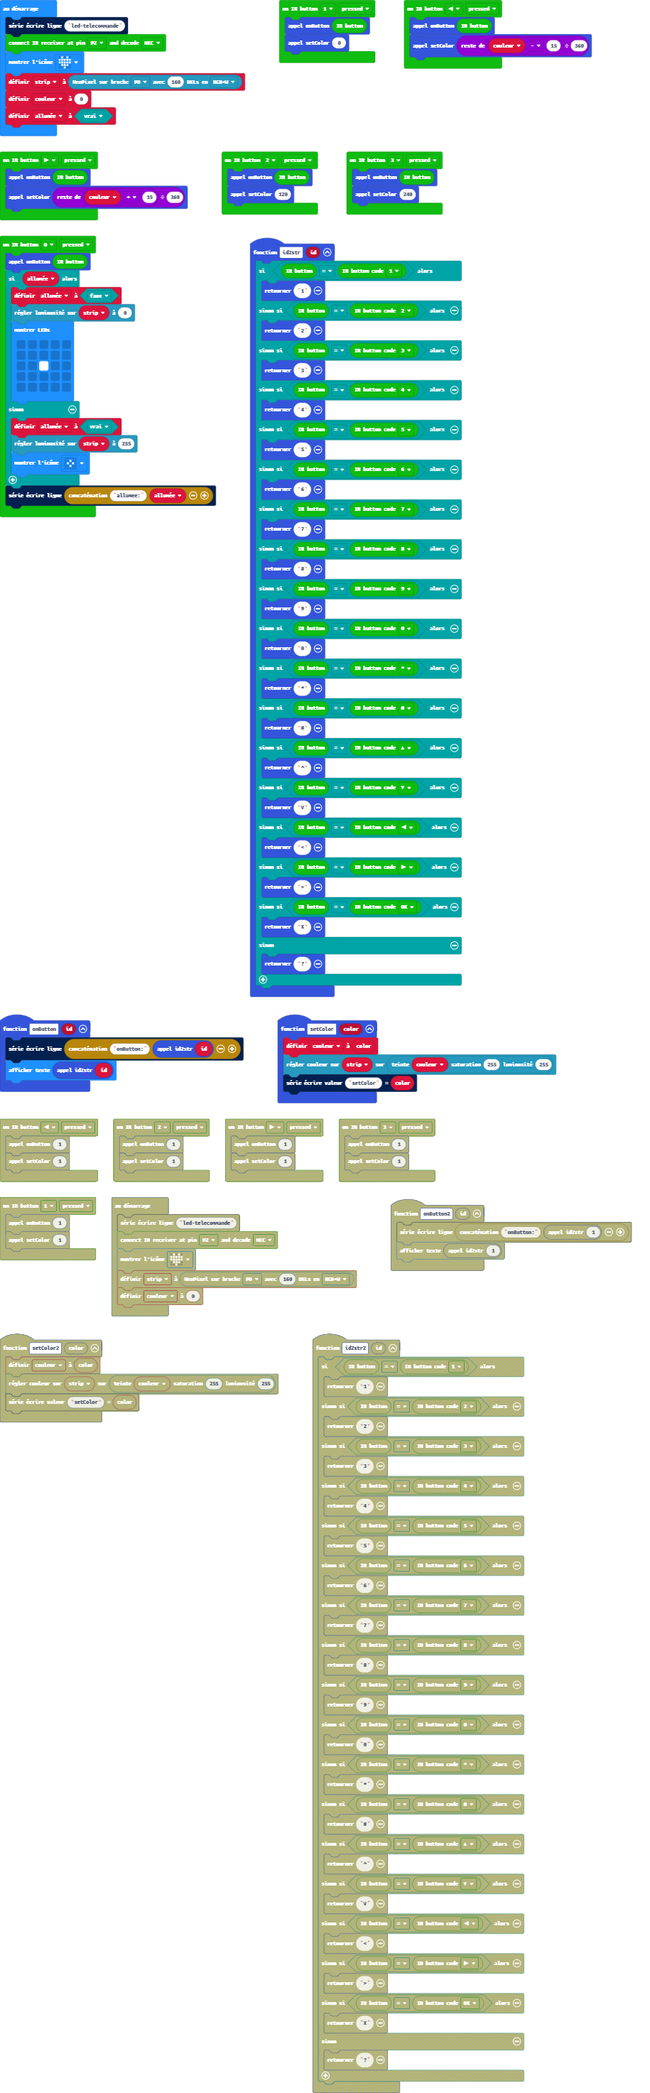
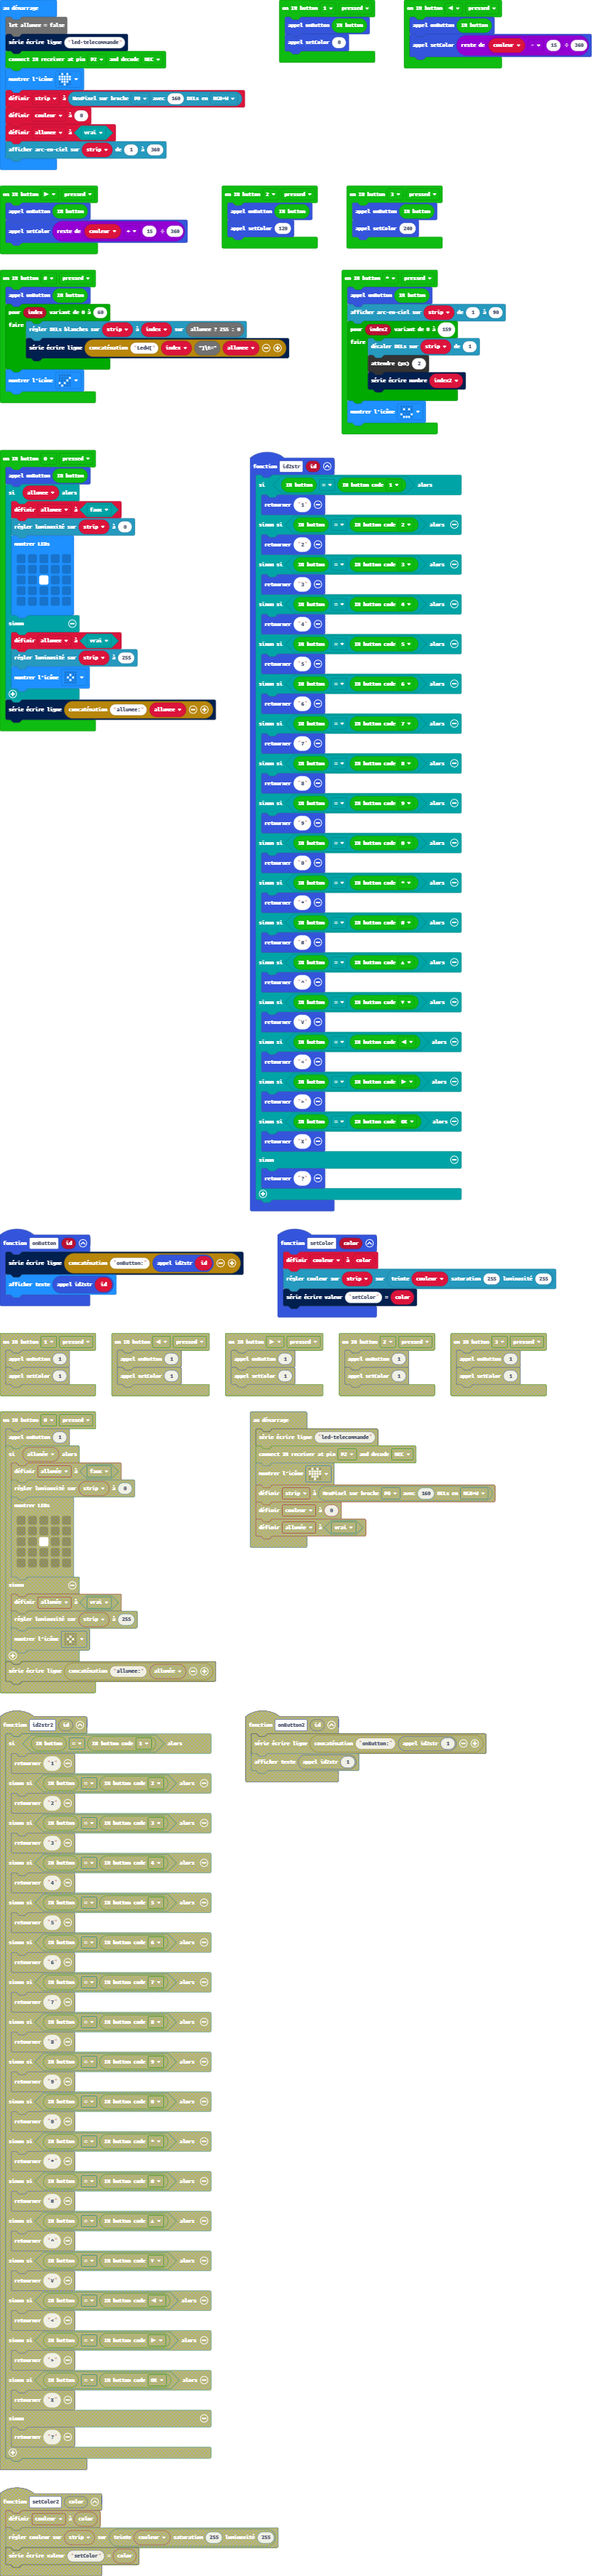
avec rainbow effet + led White

diff --git a/main.ts b/main.ts
@@ -2,10 +2,18 @@ makerbit.onIrButton(IrButton.Number_3, IrButtonAction.Pressed, function () {
     onButton(makerbit.irButton())
     setColor(240)
 })
+makerbit.onIrButton(IrButton.Hash, IrButtonAction.Pressed, function () {
+    onButton(makerbit.irButton())
+    for (let index = 0; index <= 60; index++) {
+        strip.setPixelWhiteLED(index, allumee ? 255 : 0)
+        serial.writeLine("LedW[" + index + "]\t=" + allumee)
+    }
+    basic.showIcon(IconNames.Yes)
+})
 makerbit.onIrButton(IrButton.Number_0, IrButtonAction.Pressed, function () {
     onButton(makerbit.irButton())
-    if (allumée) {
-        allumée = false
+    if (allumee) {
+        allumee = false
         strip.setBrightness(0)
         basic.showLeds(`
             . . . . .
@@ -15,11 +23,11 @@ makerbit.onIrButton(IrButton.Number_0, IrButtonAction.Pressed, function () {
             . . . . .
             `)
     } else {
-        allumée = true
+        allumee = true
         strip.setBrightness(255)
         basic.showIcon(IconNames.SmallDiamond)
     }
-    serial.writeLine("allumee:" + allumée)
+    serial.writeLine("allumee:" + allumee)
 })
 makerbit.onIrButton(IrButton.Number_1, IrButtonAction.Pressed, function () {
     onButton(makerbit.irButton())
@@ -28,6 +36,16 @@ makerbit.onIrButton(IrButton.Number_1, IrButtonAction.Pressed, function () {
 makerbit.onIrButton(IrButton.Left, IrButtonAction.Pressed, function () {
     onButton(makerbit.irButton())
     setColor((couleur - 15) % 360)
+})
+makerbit.onIrButton(IrButton.Star, IrButtonAction.Pressed, function () {
+    onButton(makerbit.irButton())
+    strip.showRainbow(1, 90)
+    for (let index2 = 0; index2 <= 159; index2++) {
+        strip.shift(1)
+        control.waitMicros(2)
+        serial.writeNumber(index2)
+    }
+    basic.showIcon(IconNames.Happy)
 })
 makerbit.onIrButton(IrButton.Number_2, IrButtonAction.Pressed, function () {
     onButton(makerbit.irButton())
@@ -85,12 +103,13 @@ function onButton (id: number) {
     serial.writeLine("onButton:" + id2str(id))
     basic.showString("" + (id2str(id)))
 }
-let allumée = false
 let couleur = 0
 let strip: neopixel.Strip = null
+let allumee = false
 serial.writeLine("led-telecommande")
 makerbit.connectIrReceiver(DigitalPin.P2, IrProtocol.NEC)
 basic.showIcon(IconNames.Heart)
 strip = neopixel.create(DigitalPin.P0, 160, NeoPixelMode.RGBW)
 couleur = 0
-allumée = true
+allumee = true
+strip.showRainbow(1, 360)
